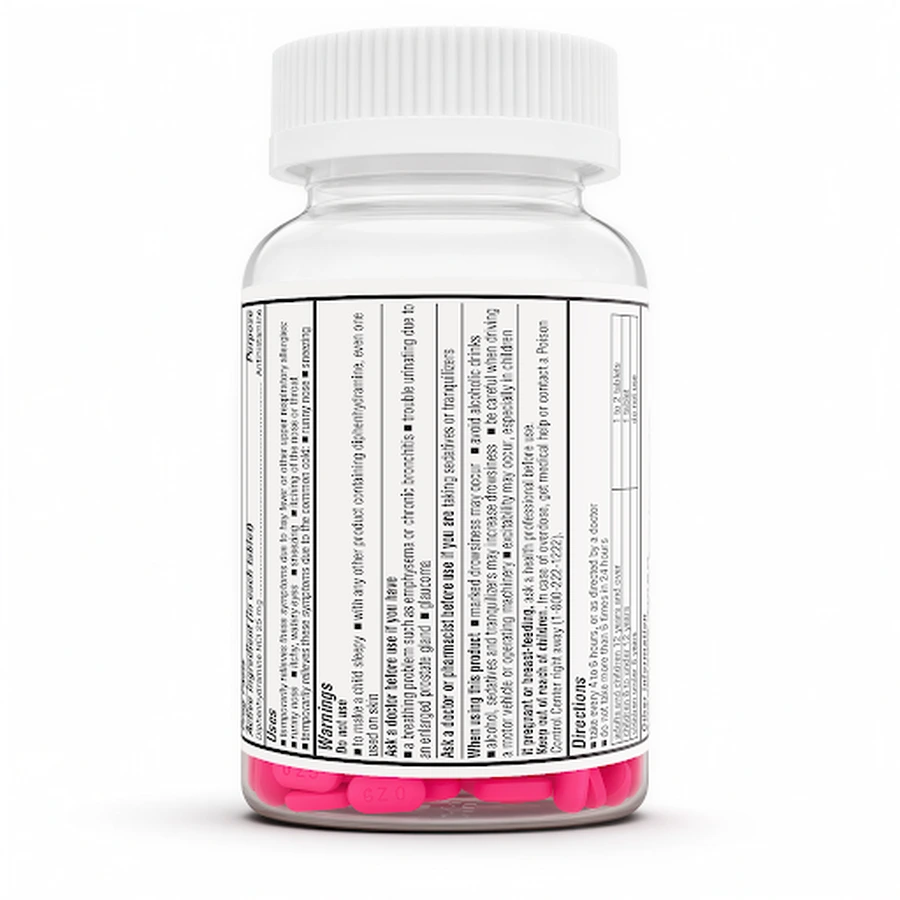
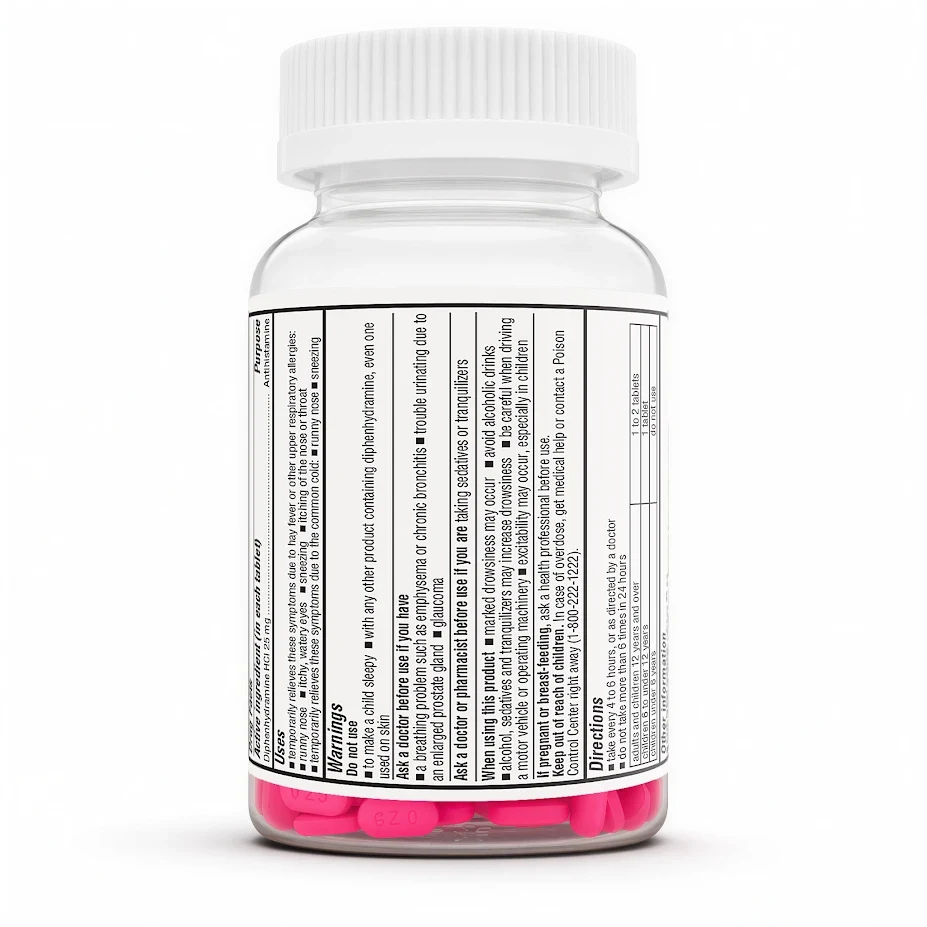
Replace blurry Drug Facts label photo with legible version
The previous image was only 512x512 and shot at an angle on the curved
bottle, making the label text illegible when zoomed. Swapped in a
sharper 927x927 photo and updated the image dimensions to match.

Changed region(s): [[0.2489, 0.3111, 0.7156, 0.8711]]

diff --git a/products/diphenhydramine-hcl-25mg-650-count.html b/products/diphenhydramine-hcl-25mg-650-count.html
@@ -300,7 +300,7 @@
       <div class="content-image" style="max-width:420px; cursor:pointer;" id="drugFactsThumb">
         <picture>
           <source srcset="../assets/diphenhydramine-drug-facts-label.webp" type="image/webp">
-          <img src="../assets/diphenhydramine-drug-facts-label.png" alt="Full Drug Facts label for Famora Diphenhydramine HCl 25 mg allergy relief caplets." width="900" height="900" loading="lazy">
+          <img src="../assets/diphenhydramine-drug-facts-label.png" alt="Full Drug Facts label for Famora Diphenhydramine HCl 25 mg allergy relief caplets." width="927" height="927" loading="lazy">
         </picture>
       </div>
     </div>
